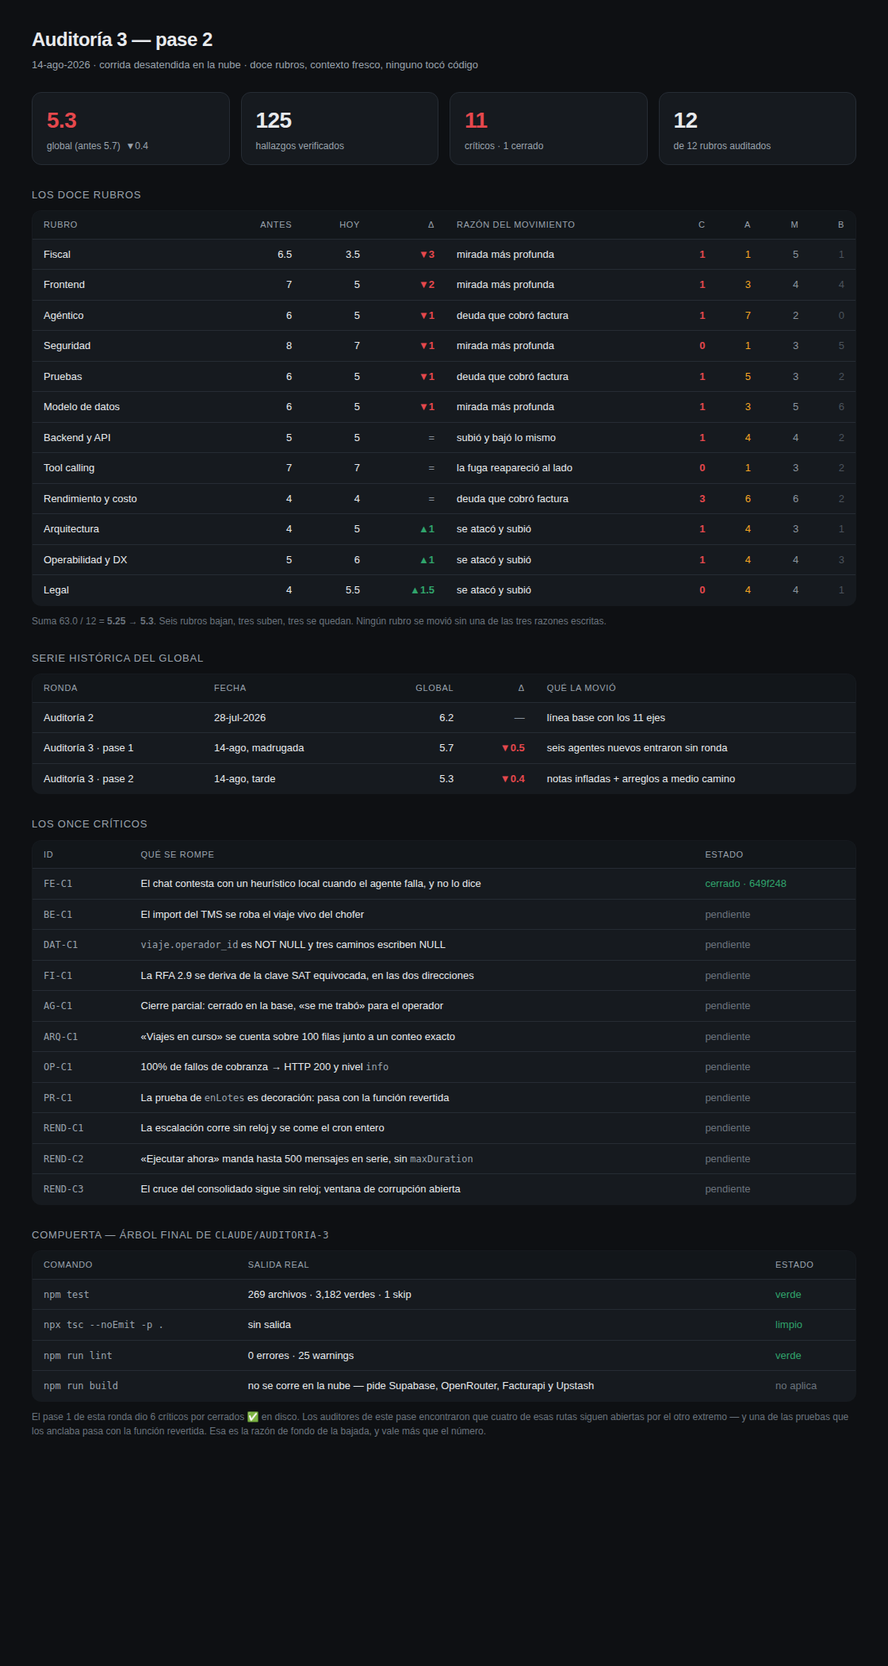
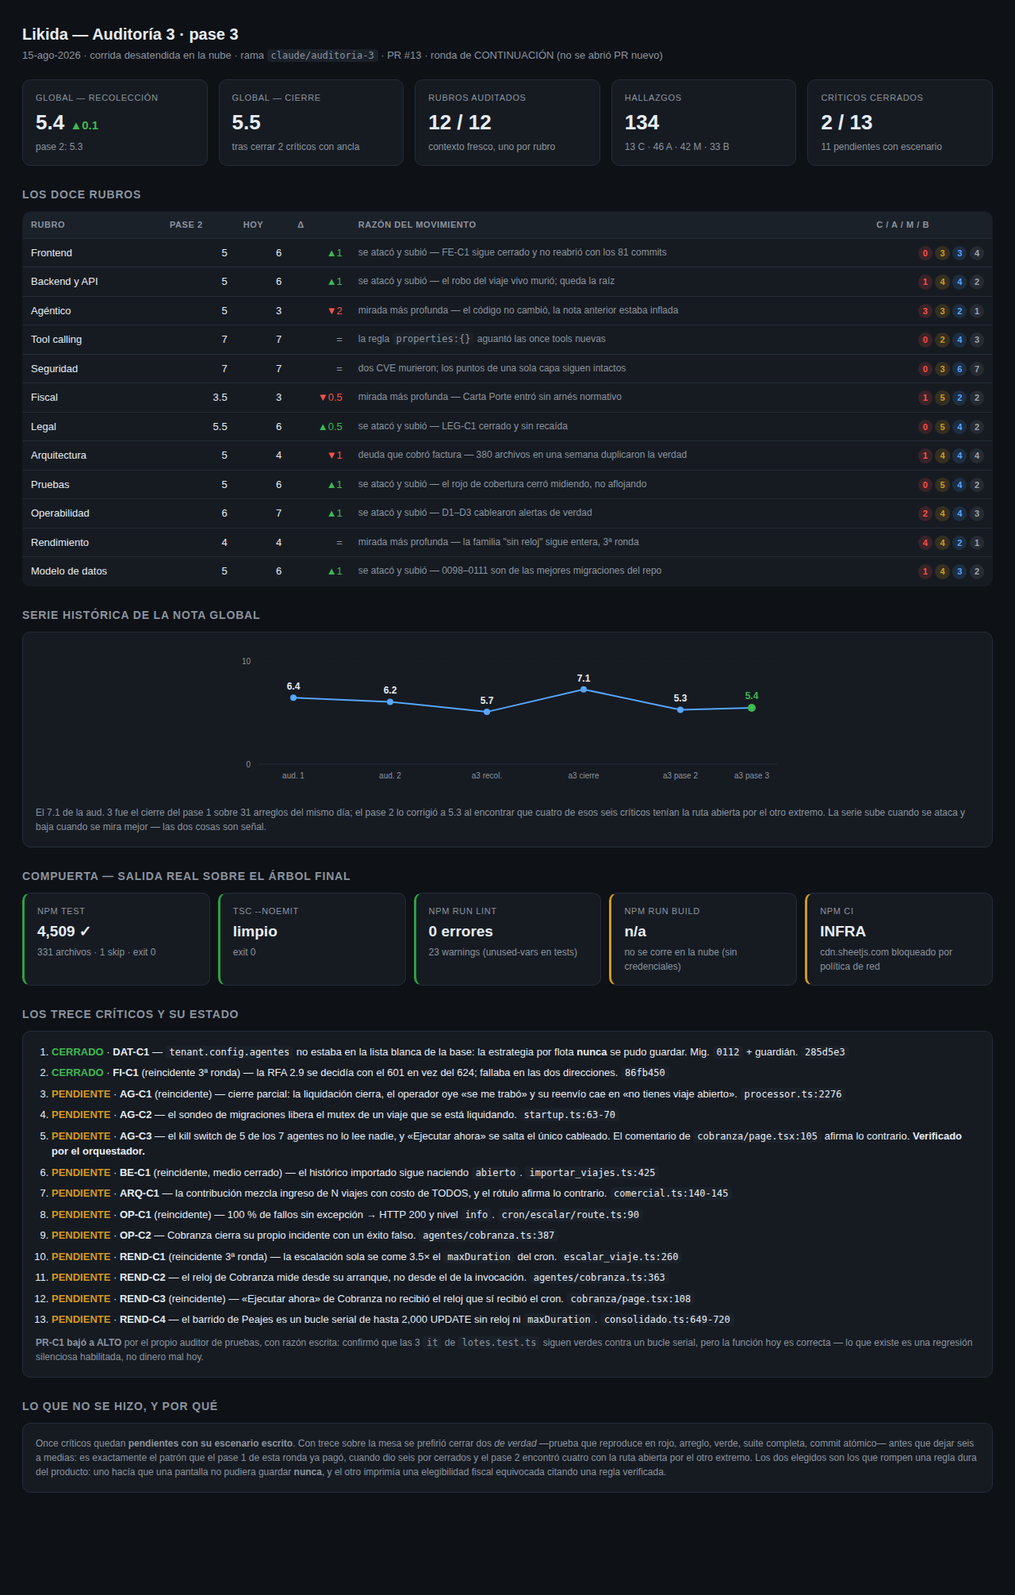
AUD3 pase 3: tablero de los doce rubros, mirado y capturado (12 rubros contados, notas cuadran con la sintesis)

diff --git a/docs/auditoria-3/tablero.html b/docs/auditoria-3/tablero.html
@@ -2,133 +2,142 @@
 <html lang="es">
 <head>
 <meta charset="utf-8">
-<title>Auditoría 3 — Likida</title>
+<title>Likida — Auditoría 3, pase 3</title>
 <style>
   :root{
-    --bg:#0e1013; --card:#161a1f; --line:#262c34; --tx:#e8eaed; --muted:#9aa3ad;
-    --faint:#6b747e; --baja:#e5484d; --sube:#30a46c; --igual:#8b949e;
-    --crit:#e5484d; --alto:#f5a524; --medio:#8b949e; --bajo:#4b535c;
+    --bg:#0e1116; --panel:#161b22; --linea:#242c37; --txt:#e6edf3; --tenue:#8b949e;
+    --ok:#2ea043; --alto:#d29922; --crit:#f85149; --medio:#58a6ff; --bajo:#6e7681;
+    --sube:#3fb950; --baja:#f85149; --igual:#8b949e;
   }
   *{box-sizing:border-box}
-  body{margin:0;background:var(--bg);color:var(--tx);
-    font:14px/1.5 ui-sans-serif,-apple-system,"Segoe UI",Roboto,sans-serif;padding:32px}
-  .wrap{max-width:1040px;margin:0 auto}
-  h1{font-size:24px;margin:0 0 4px;letter-spacing:-.02em}
-  .sub{color:var(--muted);margin:0 0 24px;font-size:13px}
-  .fila{display:flex;gap:14px;flex-wrap:wrap;margin-bottom:24px}
-  .kpi{background:var(--card);border:1px solid var(--line);border-radius:12px;
-    padding:14px 18px;min-width:150px;flex:1}
-  .kpi .n{font-size:28px;font-weight:600;letter-spacing:-.02em;
-    font-variant-numeric:tabular-nums}
-  .kpi .r{color:var(--muted);font-size:12px;margin-top:2px}
-  table{width:100%;border-collapse:collapse;background:var(--card);
-    border:1px solid var(--line);border-radius:12px;overflow:hidden}
-  th,td{padding:9px 14px;text-align:left;border-bottom:1px solid var(--line);
-    font-size:13px}
-  th{color:var(--muted);font-weight:500;font-size:11px;text-transform:uppercase;
-    letter-spacing:.06em;background:#12161a}
-  tr:last-child td{border-bottom:0}
-  .num{text-align:right;font-variant-numeric:tabular-nums}
-  .baja{color:var(--baja);font-weight:600}
-  .sube{color:var(--sube);font-weight:600}
-  .igual{color:var(--igual)}
-  .sev{display:inline-block;min-width:20px;text-align:center;
-    font-variant-numeric:tabular-nums}
-  .c{color:var(--crit);font-weight:600}
-  .a{color:var(--alto)}
-  .m{color:var(--medio)}
-  .b{color:var(--bajo)}
-  h2{font-size:13px;text-transform:uppercase;letter-spacing:.06em;
-    color:var(--muted);margin:28px 0 10px;font-weight:500}
-  .ok{color:var(--sube)} .no{color:var(--faint)}
-  .nota{color:var(--faint);font-size:12px;margin-top:10px}
-  code{font-family:ui-monospace,SFMono-Regular,Menlo,monospace;font-size:12px;
-    color:var(--muted)}
+  body{margin:0;background:var(--bg);color:var(--txt);
+    font:14px/1.5 ui-sans-serif,-apple-system,"Segoe UI",Roboto,sans-serif;padding:28px}
+  h1{font-size:20px;margin:0 0 2px}
+  .sub{color:var(--tenue);font-size:13px;margin-bottom:20px}
+  .fila{display:flex;gap:14px;flex-wrap:wrap;margin-bottom:20px}
+  .caja{background:var(--panel);border:1px solid var(--linea);border-radius:10px;padding:14px 16px;flex:1;min-width:150px}
+  .caja .et{color:var(--tenue);font-size:11px;text-transform:uppercase;letter-spacing:.06em}
+  .caja .n{font-size:26px;font-weight:650;margin-top:4px}
+  .mini{font-size:12px;color:var(--tenue);margin-top:2px}
+  table{width:100%;border-collapse:collapse;background:var(--panel);
+    border:1px solid var(--linea);border-radius:10px;overflow:hidden}
+  th,td{padding:8px 10px;text-align:left;border-bottom:1px solid var(--linea);font-size:13px;vertical-align:top}
+  th{background:#1b2129;color:var(--tenue);font-size:11px;text-transform:uppercase;letter-spacing:.05em}
+  tr:last-child td{border-bottom:none}
+  td.num{text-align:right;font-variant-numeric:tabular-nums;white-space:nowrap}
+  .sube{color:var(--sube)} .baja{color:var(--baja)} .igual{color:var(--igual)}
+  .pill{display:inline-block;padding:1px 6px;border-radius:9px;font-size:11px;font-weight:600;font-variant-numeric:tabular-nums}
+  .pc{background:rgba(248,81,73,.16);color:var(--crit)}
+  .pa{background:rgba(210,153,34,.16);color:var(--alto)}
+  .pm{background:rgba(88,166,255,.14);color:var(--medio)}
+  .pb{background:rgba(110,118,129,.18);color:#9aa4b1}
+  .razon{color:var(--tenue);font-size:12px}
+  h2{font-size:14px;margin:26px 0 10px;color:var(--tenue);text-transform:uppercase;letter-spacing:.06em}
+  .serie{background:var(--panel);border:1px solid var(--linea);border-radius:10px;padding:16px}
+  .compuerta{display:flex;gap:10px;flex-wrap:wrap}
+  .ok{border-left:3px solid var(--ok)}
+  .warn{border-left:3px solid var(--alto)}
+  ol{margin:0;padding-left:20px} li{margin-bottom:7px;font-size:13px}
+  .cerrado{color:var(--sube);font-weight:600}
+  .pend{color:var(--alto);font-weight:600}
+  code{background:#1b2129;padding:1px 5px;border-radius:4px;font-size:12px}
 </style>
 </head>
 <body>
-<div class="wrap">
 
-  <h1>Auditoría 3 — pase 2</h1>
-  <p class="sub">14-ago-2026 · corrida desatendida en la nube · doce rubros, contexto fresco, ninguno tocó código</p>
+<h1>Likida — Auditoría 3 · pase 3</h1>
+<div class="sub">15-ago-2026 · corrida desatendida en la nube · rama <code>claude/auditoria-3</code> · PR #13 · ronda de CONTINUACIÓN (no se abrió PR nuevo)</div>
 
-  <div class="fila">
-    <div class="kpi"><div class="n baja">5.3</div><div class="r">global (antes 5.7) &nbsp;▼0.4</div></div>
-    <div class="kpi"><div class="n">125</div><div class="r">hallazgos verificados</div></div>
-    <div class="kpi"><div class="n c">11</div><div class="r">críticos · 1 cerrado</div></div>
-    <div class="kpi"><div class="n">12</div><div class="r">de 12 rubros auditados</div></div>
-  </div>
-
-  <h2>Los doce rubros</h2>
-  <table>
-    <thead><tr>
-      <th>Rubro</th><th class="num">Antes</th><th class="num">Hoy</th><th class="num">Δ</th>
-      <th>Razón del movimiento</th>
-      <th class="num">C</th><th class="num">A</th><th class="num">M</th><th class="num">B</th>
-    </tr></thead>
-    <tbody>
-      <tr><td>Fiscal</td><td class="num">6.5</td><td class="num">3.5</td><td class="num baja">▼3</td><td>mirada más profunda</td><td class="num c">1</td><td class="num a">1</td><td class="num m">5</td><td class="num b">1</td></tr>
-      <tr><td>Frontend</td><td class="num">7</td><td class="num">5</td><td class="num baja">▼2</td><td>mirada más profunda</td><td class="num c">1</td><td class="num a">3</td><td class="num m">4</td><td class="num b">4</td></tr>
-      <tr><td>Agéntico</td><td class="num">6</td><td class="num">5</td><td class="num baja">▼1</td><td>deuda que cobró factura</td><td class="num c">1</td><td class="num a">7</td><td class="num m">2</td><td class="num b">0</td></tr>
-      <tr><td>Seguridad</td><td class="num">8</td><td class="num">7</td><td class="num baja">▼1</td><td>mirada más profunda</td><td class="num c">0</td><td class="num a">1</td><td class="num m">3</td><td class="num b">5</td></tr>
-      <tr><td>Pruebas</td><td class="num">6</td><td class="num">5</td><td class="num baja">▼1</td><td>deuda que cobró factura</td><td class="num c">1</td><td class="num a">5</td><td class="num m">3</td><td class="num b">2</td></tr>
-      <tr><td>Modelo de datos</td><td class="num">6</td><td class="num">5</td><td class="num baja">▼1</td><td>mirada más profunda</td><td class="num c">1</td><td class="num a">3</td><td class="num m">5</td><td class="num b">6</td></tr>
-      <tr><td>Backend y API</td><td class="num">5</td><td class="num">5</td><td class="num igual">=</td><td>subió y bajó lo mismo</td><td class="num c">1</td><td class="num a">4</td><td class="num m">4</td><td class="num b">2</td></tr>
-      <tr><td>Tool calling</td><td class="num">7</td><td class="num">7</td><td class="num igual">=</td><td>la fuga reapareció al lado</td><td class="num c">0</td><td class="num a">1</td><td class="num m">3</td><td class="num b">2</td></tr>
-      <tr><td>Rendimiento y costo</td><td class="num">4</td><td class="num">4</td><td class="num igual">=</td><td>deuda que cobró factura</td><td class="num c">3</td><td class="num a">6</td><td class="num m">6</td><td class="num b">2</td></tr>
-      <tr><td>Arquitectura</td><td class="num">4</td><td class="num">5</td><td class="num sube">▲1</td><td>se atacó y subió</td><td class="num c">1</td><td class="num a">4</td><td class="num m">3</td><td class="num b">1</td></tr>
-      <tr><td>Operabilidad y DX</td><td class="num">5</td><td class="num">6</td><td class="num sube">▲1</td><td>se atacó y subió</td><td class="num c">1</td><td class="num a">4</td><td class="num m">4</td><td class="num b">3</td></tr>
-      <tr><td>Legal</td><td class="num">4</td><td class="num">5.5</td><td class="num sube">▲1.5</td><td>se atacó y subió</td><td class="num c">0</td><td class="num a">4</td><td class="num m">4</td><td class="num b">1</td></tr>
-    </tbody>
-  </table>
-  <p class="nota">Suma 63.0 / 12 = <strong>5.25 → 5.3</strong>. Seis rubros bajan, tres suben, tres se quedan. Ningún rubro se movió sin una de las tres razones escritas.</p>
-
-  <h2>Serie histórica del global</h2>
-  <table>
-    <thead><tr><th>Ronda</th><th>Fecha</th><th class="num">Global</th><th class="num">Δ</th><th>Qué la movió</th></tr></thead>
-    <tbody>
-      <tr><td>Auditoría 2</td><td>28-jul-2026</td><td class="num">6.2</td><td class="num igual">—</td><td>línea base con los 11 ejes</td></tr>
-      <tr><td>Auditoría 3 · pase 1</td><td>14-ago, madrugada</td><td class="num">5.7</td><td class="num baja">▼0.5</td><td>seis agentes nuevos entraron sin ronda</td></tr>
-      <tr><td>Auditoría 3 · pase 2</td><td>14-ago, tarde</td><td class="num">5.3</td><td class="num baja">▼0.4</td><td>notas infladas + arreglos a medio camino</td></tr>
-    </tbody>
-  </table>
-
-  <h2>Los once críticos</h2>
-  <table>
-    <thead><tr><th>ID</th><th>Qué se rompe</th><th>Estado</th></tr></thead>
-    <tbody>
-      <tr><td><code>FE-C1</code></td><td>El chat contesta con un heurístico local cuando el agente falla, y no lo dice</td><td class="ok">cerrado · 649f248</td></tr>
-      <tr><td><code>BE-C1</code></td><td>El import del TMS se roba el viaje vivo del chofer</td><td class="no">pendiente</td></tr>
-      <tr><td><code>DAT-C1</code></td><td><code>viaje.operador_id</code> es NOT NULL y tres caminos escriben NULL</td><td class="no">pendiente</td></tr>
-      <tr><td><code>FI-C1</code></td><td>La RFA 2.9 se deriva de la clave SAT equivocada, en las dos direcciones</td><td class="no">pendiente</td></tr>
-      <tr><td><code>AG-C1</code></td><td>Cierre parcial: cerrado en la base, «se me trabó» para el operador</td><td class="no">pendiente</td></tr>
-      <tr><td><code>ARQ-C1</code></td><td>«Viajes en curso» se cuenta sobre 100 filas junto a un conteo exacto</td><td class="no">pendiente</td></tr>
-      <tr><td><code>OP-C1</code></td><td>100% de fallos de cobranza → HTTP 200 y nivel <code>info</code></td><td class="no">pendiente</td></tr>
-      <tr><td><code>PR-C1</code></td><td>La prueba de <code>enLotes</code> es decoración: pasa con la función revertida</td><td class="no">pendiente</td></tr>
-      <tr><td><code>REND-C1</code></td><td>La escalación corre sin reloj y se come el cron entero</td><td class="no">pendiente</td></tr>
-      <tr><td><code>REND-C2</code></td><td>«Ejecutar ahora» manda hasta 500 mensajes en serie, sin <code>maxDuration</code></td><td class="no">pendiente</td></tr>
-      <tr><td><code>REND-C3</code></td><td>El cruce del consolidado sigue sin reloj; ventana de corrupción abierta</td><td class="no">pendiente</td></tr>
-    </tbody>
-  </table>
-
-  <h2>Compuerta — árbol final de <code>claude/auditoria-3</code></h2>
-  <table>
-    <thead><tr><th>Comando</th><th>Salida real</th><th>Estado</th></tr></thead>
-    <tbody>
-      <tr><td><code>npm test</code></td><td>269 archivos · 3,182 verdes · 1 skip</td><td class="ok">verde</td></tr>
-      <tr><td><code>npx tsc --noEmit -p .</code></td><td>sin salida</td><td class="ok">limpio</td></tr>
-      <tr><td><code>npm run lint</code></td><td>0 errores · 25 warnings</td><td class="ok">verde</td></tr>
-      <tr><td><code>npm run build</code></td><td>no se corre en la nube — pide Supabase, OpenRouter, Facturapi y Upstash</td><td class="no">no aplica</td></tr>
-    </tbody>
-  </table>
-
-  <p class="nota">
-    El pase 1 de esta ronda dio 6 críticos por cerrados ✅ en disco. Los auditores
-    de este pase encontraron que cuatro de esas rutas siguen abiertas por el otro
-    extremo — y una de las pruebas que los anclaba pasa con la función revertida.
-    Esa es la razón de fondo de la bajada, y vale más que el número.
-  </p>
-
+<div class="fila">
+  <div class="caja"><div class="et">Global — recolección</div><div class="n">5.4 <span class="sube" style="font-size:15px">▲0.1</span></div><div class="mini">pase 2: 5.3</div></div>
+  <div class="caja"><div class="et">Global — cierre</div><div class="n">5.5</div><div class="mini">tras cerrar 2 críticos con ancla</div></div>
+  <div class="caja"><div class="et">Rubros auditados</div><div class="n">12 / 12</div><div class="mini">contexto fresco, uno por rubro</div></div>
+  <div class="caja"><div class="et">Hallazgos</div><div class="n">134</div><div class="mini">13 C · 46 A · 42 M · 33 B</div></div>
+  <div class="caja"><div class="et">Críticos cerrados</div><div class="n">2 / 13</div><div class="mini">11 pendientes con escenario</div></div>
 </div>
+
+<h2>Los doce rubros</h2>
+<table>
+  <thead><tr>
+    <th>Rubro</th><th class="num">Pase 2</th><th class="num">Hoy</th><th class="num">Δ</th>
+    <th>Razón del movimiento</th><th class="num">C / A / M / B</th>
+  </tr></thead>
+  <tbody>
+    <tr><td>Frontend</td><td class="num">5</td><td class="num">6</td><td class="num sube">▲1</td><td class="razon">se atacó y subió — FE-C1 sigue cerrado y no reabrió con los 81 commits</td><td class="num"><span class="pill pc">0</span> <span class="pill pa">3</span> <span class="pill pm">3</span> <span class="pill pb">4</span></td></tr>
+    <tr><td>Backend y API</td><td class="num">5</td><td class="num">6</td><td class="num sube">▲1</td><td class="razon">se atacó y subió — el robo del viaje vivo murió; queda la raíz</td><td class="num"><span class="pill pc">1</span> <span class="pill pa">4</span> <span class="pill pm">4</span> <span class="pill pb">2</span></td></tr>
+    <tr><td>Agéntico</td><td class="num">5</td><td class="num">3</td><td class="num baja">▼2</td><td class="razon">mirada más profunda — el código no cambió, la nota anterior estaba inflada</td><td class="num"><span class="pill pc">3</span> <span class="pill pa">3</span> <span class="pill pm">2</span> <span class="pill pb">1</span></td></tr>
+    <tr><td>Tool calling</td><td class="num">7</td><td class="num">7</td><td class="num igual">=</td><td class="razon">la regla <code>properties:{}</code> aguantó las once tools nuevas</td><td class="num"><span class="pill pc">0</span> <span class="pill pa">2</span> <span class="pill pm">4</span> <span class="pill pb">3</span></td></tr>
+    <tr><td>Seguridad</td><td class="num">7</td><td class="num">7</td><td class="num igual">=</td><td class="razon">dos CVE murieron; los puntos de una sola capa siguen intactos</td><td class="num"><span class="pill pc">0</span> <span class="pill pa">3</span> <span class="pill pm">6</span> <span class="pill pb">7</span></td></tr>
+    <tr><td>Fiscal</td><td class="num">3.5</td><td class="num">3</td><td class="num baja">▼0.5</td><td class="razon">mirada más profunda — Carta Porte entró sin arnés normativo</td><td class="num"><span class="pill pc">1</span> <span class="pill pa">5</span> <span class="pill pm">2</span> <span class="pill pb">2</span></td></tr>
+    <tr><td>Legal</td><td class="num">5.5</td><td class="num">6</td><td class="num sube">▲0.5</td><td class="razon">se atacó y subió — LEG-C1 cerrado y sin recaída</td><td class="num"><span class="pill pc">0</span> <span class="pill pa">5</span> <span class="pill pm">4</span> <span class="pill pb">2</span></td></tr>
+    <tr><td>Arquitectura</td><td class="num">5</td><td class="num">4</td><td class="num baja">▼1</td><td class="razon">deuda que cobró factura — 380 archivos en una semana duplicaron la verdad</td><td class="num"><span class="pill pc">1</span> <span class="pill pa">4</span> <span class="pill pm">4</span> <span class="pill pb">4</span></td></tr>
+    <tr><td>Pruebas</td><td class="num">5</td><td class="num">6</td><td class="num sube">▲1</td><td class="razon">se atacó y subió — el rojo de cobertura cerró midiendo, no aflojando</td><td class="num"><span class="pill pc">0</span> <span class="pill pa">5</span> <span class="pill pm">4</span> <span class="pill pb">2</span></td></tr>
+    <tr><td>Operabilidad</td><td class="num">6</td><td class="num">7</td><td class="num sube">▲1</td><td class="razon">se atacó y subió — D1–D3 cablearon alertas de verdad</td><td class="num"><span class="pill pc">2</span> <span class="pill pa">4</span> <span class="pill pm">4</span> <span class="pill pb">3</span></td></tr>
+    <tr><td>Rendimiento</td><td class="num">4</td><td class="num">4</td><td class="num igual">=</td><td class="razon">mirada más profunda — la familia "sin reloj" sigue entera, 3ª ronda</td><td class="num"><span class="pill pc">4</span> <span class="pill pa">4</span> <span class="pill pm">2</span> <span class="pill pb">1</span></td></tr>
+    <tr><td>Modelo de datos</td><td class="num">5</td><td class="num">6</td><td class="num sube">▲1</td><td class="razon">se atacó y subió — 0098–0111 son de las mejores migraciones del repo</td><td class="num"><span class="pill pc">1</span> <span class="pill pa">4</span> <span class="pill pm">3</span> <span class="pill pb">2</span></td></tr>
+  </tbody>
+</table>
+
+<h2>Serie histórica de la nota global</h2>
+<div class="serie">
+  <svg viewBox="0 0 720 190" width="100%" height="190" role="img" aria-label="Serie histórica de la nota global">
+    <line x1="46" y1="150" x2="700" y2="150" stroke="#242c37"/>
+    <line x1="46" y1="20" x2="700" y2="20" stroke="#1b2129" stroke-dasharray="3 3"/>
+    <text x="36" y="154" fill="#8b949e" font-size="10" text-anchor="end">0</text>
+    <text x="36" y="24" fill="#8b949e" font-size="10" text-anchor="end">10</text>
+    <polyline fill="none" stroke="#58a6ff" stroke-width="2"
+      points="90,66.2 212,71.4 334,84.1 456,55.7 578,81.5 668,79.0"/>
+    <g fill="#58a6ff">
+      <circle cx="90" cy="66.2" r="4"/><circle cx="212" cy="71.4" r="4"/>
+      <circle cx="334" cy="84.1" r="4"/><circle cx="456" cy="55.7" r="4"/>
+      <circle cx="578" cy="81.5" r="4"/><circle cx="668" cy="79.0" r="5" fill="#3fb950"/>
+    </g>
+    <g fill="#e6edf3" font-size="12" text-anchor="middle" font-weight="600">
+      <text x="90" y="56">6.4</text><text x="212" y="61">6.2</text><text x="334" y="74">5.7</text>
+      <text x="456" y="46">7.1</text><text x="578" y="71">5.3</text><text x="668" y="68" fill="#3fb950">5.4</text>
+    </g>
+    <g fill="#8b949e" font-size="10" text-anchor="middle">
+      <text x="90" y="168">aud. 1</text><text x="212" y="168">aud. 2</text>
+      <text x="334" y="168">a3 recol.</text><text x="456" y="168">a3 cierre</text>
+      <text x="578" y="168">a3 pase 2</text><text x="668" y="168">a3 pase 3</text>
+    </g>
+  </svg>
+  <div class="razon" style="margin-top:6px">El 7.1 de la aud. 3 fue el cierre del pase 1 sobre 31 arreglos del mismo día; el pase 2 lo corrigió a 5.3 al encontrar que cuatro de esos seis críticos tenían la ruta abierta por el otro extremo. La serie sube cuando se ataca y baja cuando se mira mejor — las dos cosas son señal.</div>
+</div>
+
+<h2>Compuerta — salida real sobre el árbol final</h2>
+<div class="fila compuerta">
+  <div class="caja ok"><div class="et">npm test</div><div class="n" style="font-size:19px">4,509 ✓</div><div class="mini">331 archivos · 1 skip · exit 0</div></div>
+  <div class="caja ok"><div class="et">tsc --noEmit</div><div class="n" style="font-size:19px">limpio</div><div class="mini">exit 0</div></div>
+  <div class="caja ok"><div class="et">npm run lint</div><div class="n" style="font-size:19px">0 errores</div><div class="mini">23 warnings (unused-vars en tests)</div></div>
+  <div class="caja warn"><div class="et">npm run build</div><div class="n" style="font-size:19px">n/a</div><div class="mini">no se corre en la nube (sin credenciales)</div></div>
+  <div class="caja warn"><div class="et">npm ci</div><div class="n" style="font-size:19px">INFRA</div><div class="mini">cdn.sheetjs.com bloqueado por política de red</div></div>
+</div>
+
+<h2>Los trece críticos y su estado</h2>
+<div class="serie">
+<ol>
+  <li><span class="cerrado">CERRADO</span> · <b>DAT-C1</b> — <code>tenant.config.agentes</code> no estaba en la lista blanca de la base: la estrategia por flota <b>nunca</b> se pudo guardar. Mig. <code>0112</code> + guardián. <code>285d5e3</code></li>
+  <li><span class="cerrado">CERRADO</span> · <b>FI-C1</b> (reincidente 3ª ronda) — la RFA 2.9 se decidía con el 601 en vez del 624; fallaba en las dos direcciones. <code>86fb450</code></li>
+  <li><span class="pend">PENDIENTE</span> · <b>AG-C1</b> (reincidente) — cierre parcial: la liquidación cierra, el operador oye «se me trabó» y su reenvío cae en «no tienes viaje abierto». <code>processor.ts:2276</code></li>
+  <li><span class="pend">PENDIENTE</span> · <b>AG-C2</b> — el sondeo de migraciones libera el mutex de un viaje que se está liquidando. <code>startup.ts:63-70</code></li>
+  <li><span class="pend">PENDIENTE</span> · <b>AG-C3</b> — el kill switch de 5 de los 7 agentes no lo lee nadie, y «Ejecutar ahora» se salta el único cableado. El comentario de <code>cobranza/page.tsx:105</code> afirma lo contrario. <b>Verificado por el orquestador.</b></li>
+  <li><span class="pend">PENDIENTE</span> · <b>BE-C1</b> (reincidente, medio cerrado) — el histórico importado sigue naciendo <code>abierto</code>. <code>importar_viajes.ts:425</code></li>
+  <li><span class="pend">PENDIENTE</span> · <b>ARQ-C1</b> — la contribución mezcla ingreso de N viajes con costo de TODOS, y el rótulo afirma lo contrario. <code>comercial.ts:140-145</code></li>
+  <li><span class="pend">PENDIENTE</span> · <b>OP-C1</b> (reincidente) — 100 % de fallos sin excepción → HTTP 200 y nivel <code>info</code>. <code>cron/escalar/route.ts:90</code></li>
+  <li><span class="pend">PENDIENTE</span> · <b>OP-C2</b> — Cobranza cierra su propio incidente con un éxito falso. <code>agentes/cobranza.ts:387</code></li>
+  <li><span class="pend">PENDIENTE</span> · <b>REND-C1</b> (reincidente 3ª ronda) — la escalación sola se come 3.5× el <code>maxDuration</code> del cron. <code>escalar_viaje.ts:260</code></li>
+  <li><span class="pend">PENDIENTE</span> · <b>REND-C2</b> — el reloj de Cobranza mide desde su arranque, no desde el de la invocación. <code>agentes/cobranza.ts:363</code></li>
+  <li><span class="pend">PENDIENTE</span> · <b>REND-C3</b> (reincidente) — «Ejecutar ahora» de Cobranza no recibió el reloj que sí recibió el cron. <code>cobranza/page.tsx:108</code></li>
+  <li><span class="pend">PENDIENTE</span> · <b>REND-C4</b> — el barrido de Peajes es un bucle serial de hasta 2,000 UPDATE sin reloj ni <code>maxDuration</code>. <code>consolidado.ts:649-720</code></li>
+</ol>
+<div class="razon" style="margin-top:10px"><b>PR-C1 bajó a ALTO</b> por el propio auditor de pruebas, con razón escrita: confirmó que las 3 <code>it</code> de <code>lotes.test.ts</code> siguen verdes contra un bucle serial, pero la función hoy es correcta — lo que existe es una regresión silenciosa habilitada, no dinero mal hoy.</div>
+</div>
+
+<h2>Lo que no se hizo, y por qué</h2>
+<div class="serie razon">
+Once críticos quedan <b>pendientes con su escenario escrito</b>. Con trece sobre la mesa se prefirió cerrar dos <i>de verdad</i> —prueba que reproduce en rojo, arreglo, verde, suite completa, commit atómico— antes que dejar seis a medias: es exactamente el patrón que el pase 1 de esta ronda ya pagó, cuando dio seis por cerrados y el pase 2 encontró cuatro con la ruta abierta por el otro extremo. Los dos elegidos son los que rompen una regla dura del producto: uno hacía que una pantalla no pudiera guardar <b>nunca</b>, y el otro imprimía una elegibilidad fiscal equivocada citando una regla verificada.
+</div>
+
 </body>
 </html>
